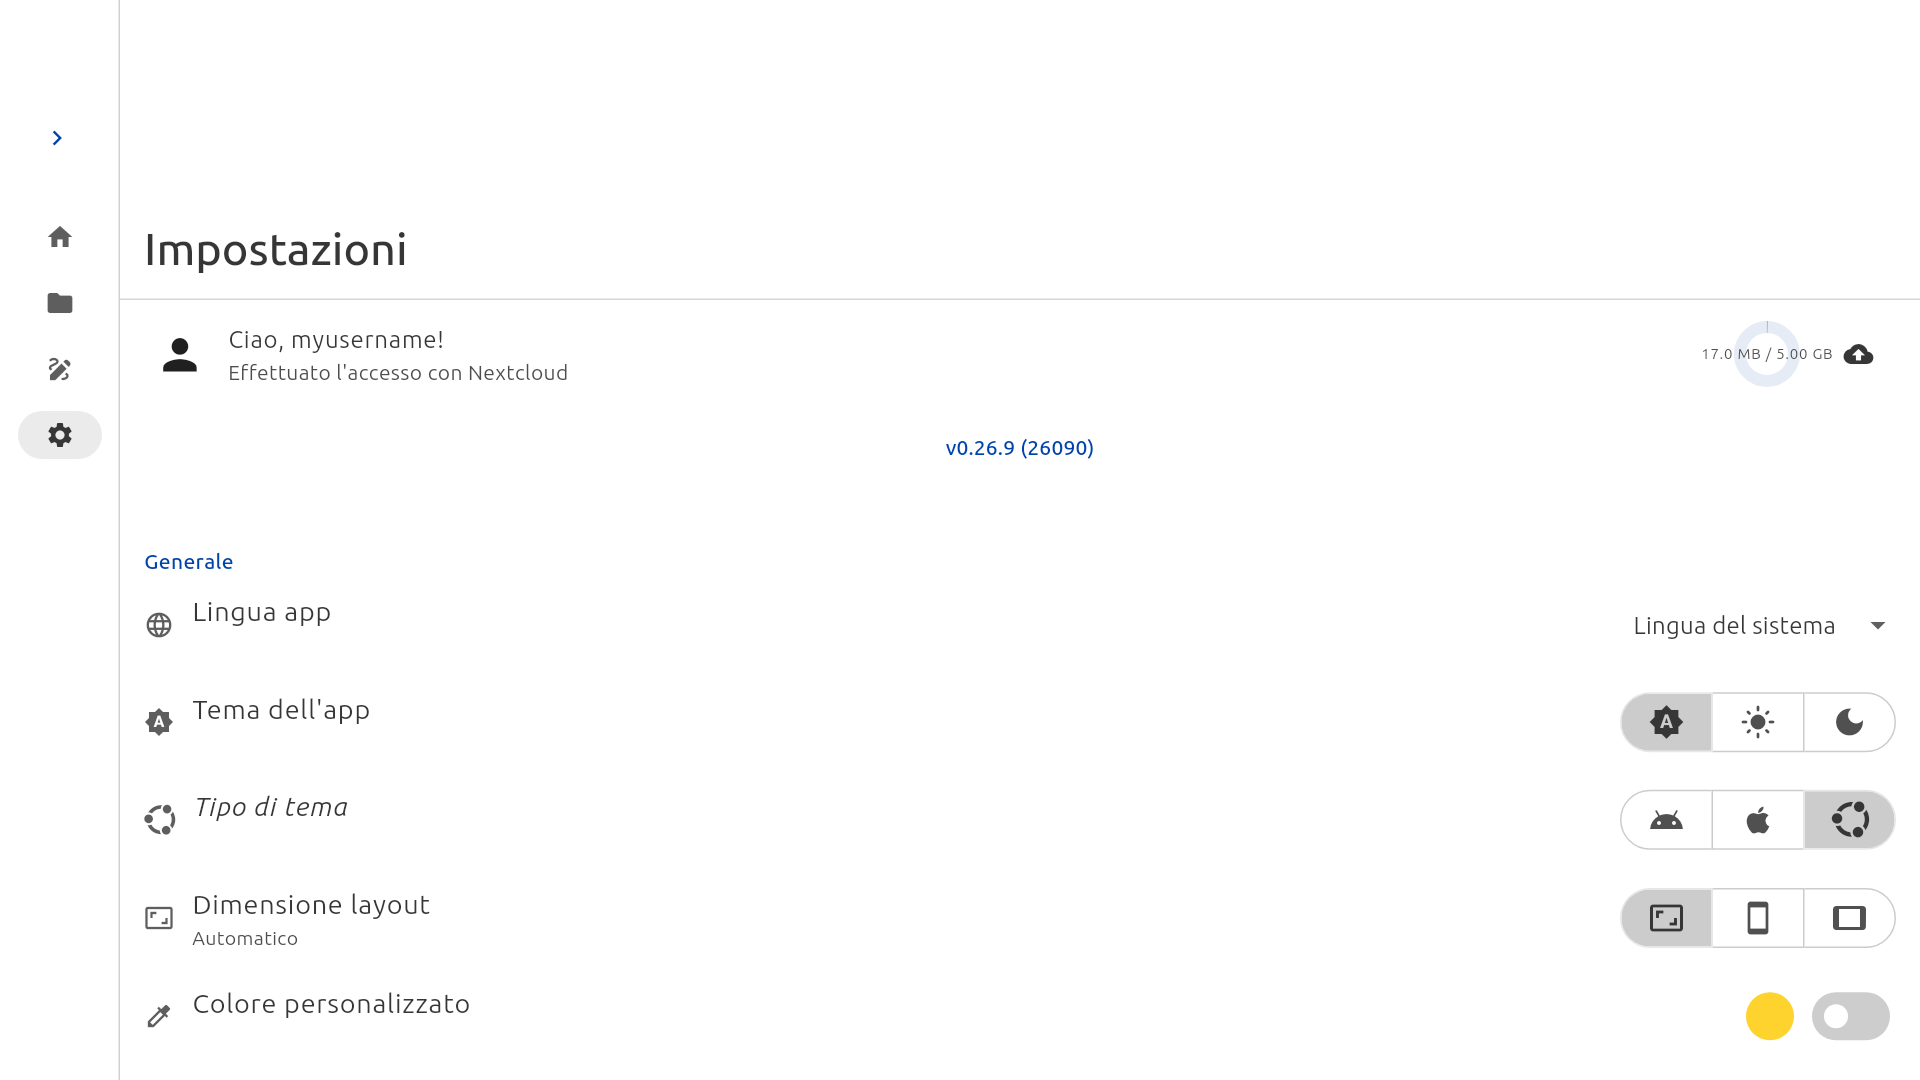
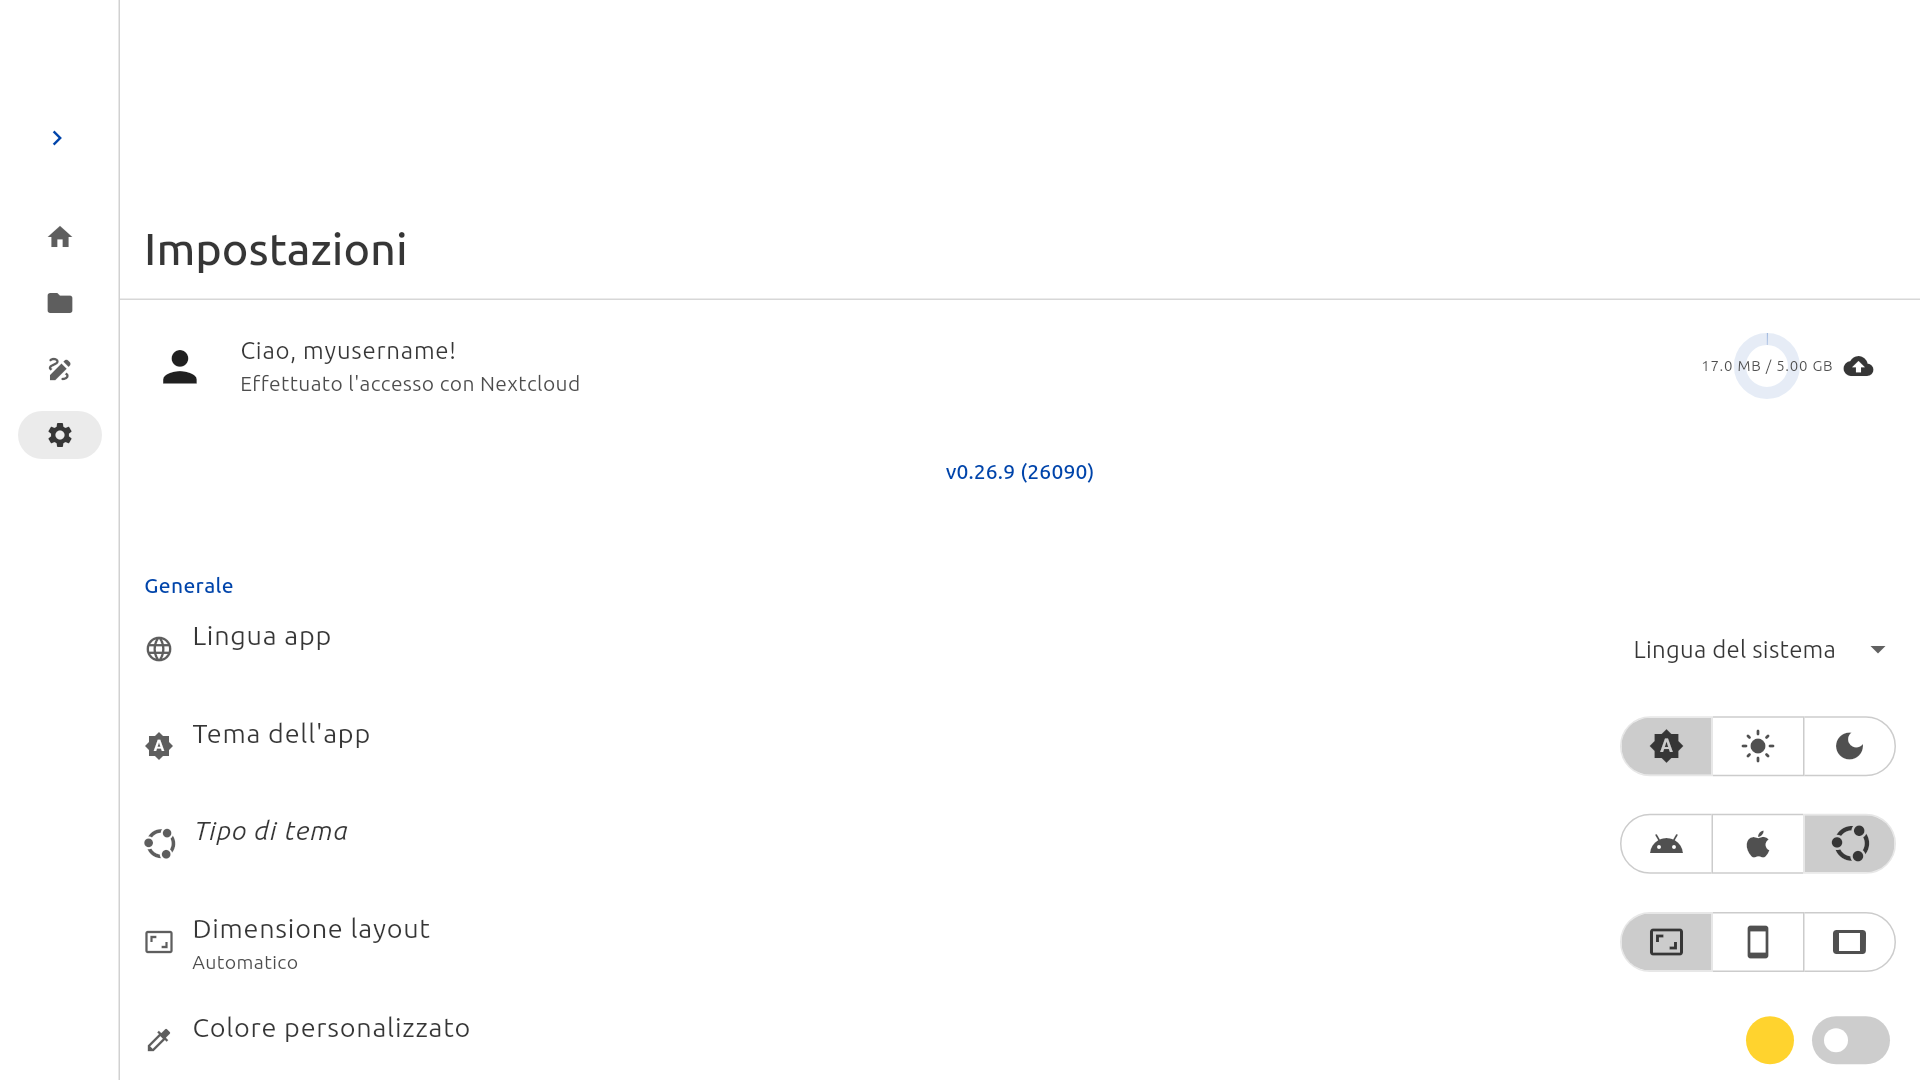
fix: pfp aspect ratio on linux

diff --git a/lib/components/settings/nextcloud_profile.dart b/lib/components/settings/nextcloud_profile.dart
@@ -69,9 +69,11 @@ class _NextcloudProfileState extends State<NextcloudProfile> {
       LoginStep.enc => t.login.status.almostDone,
       LoginStep.done => t.login.status.loggedIn,
     };
+    const pfpSize = 48.0;
 
     var colorScheme = Theme.of(context).colorScheme;
     return ListTile(
+      visualDensity: VisualDensity.standard,
       onTap: () => context.push(RoutePaths.login),
       leading: ValueListenableBuilder(
         valueListenable: stows.pfp,
@@ -79,11 +81,11 @@ class _NextcloudProfileState extends State<NextcloudProfile> {
           return ClipRSuperellipse(
             borderRadius: BorderRadius.circular(18),
             child: pfp == null
-                ? const _UnknownPfp(size: 48)
+                ? const _UnknownPfp(size: pfpSize)
                 : Image.memory(
                     pfp,
-                    width: 48,
-                    height: 48,
+                    width: pfpSize,
+                    height: pfpSize,
                   ),
           );
         },
